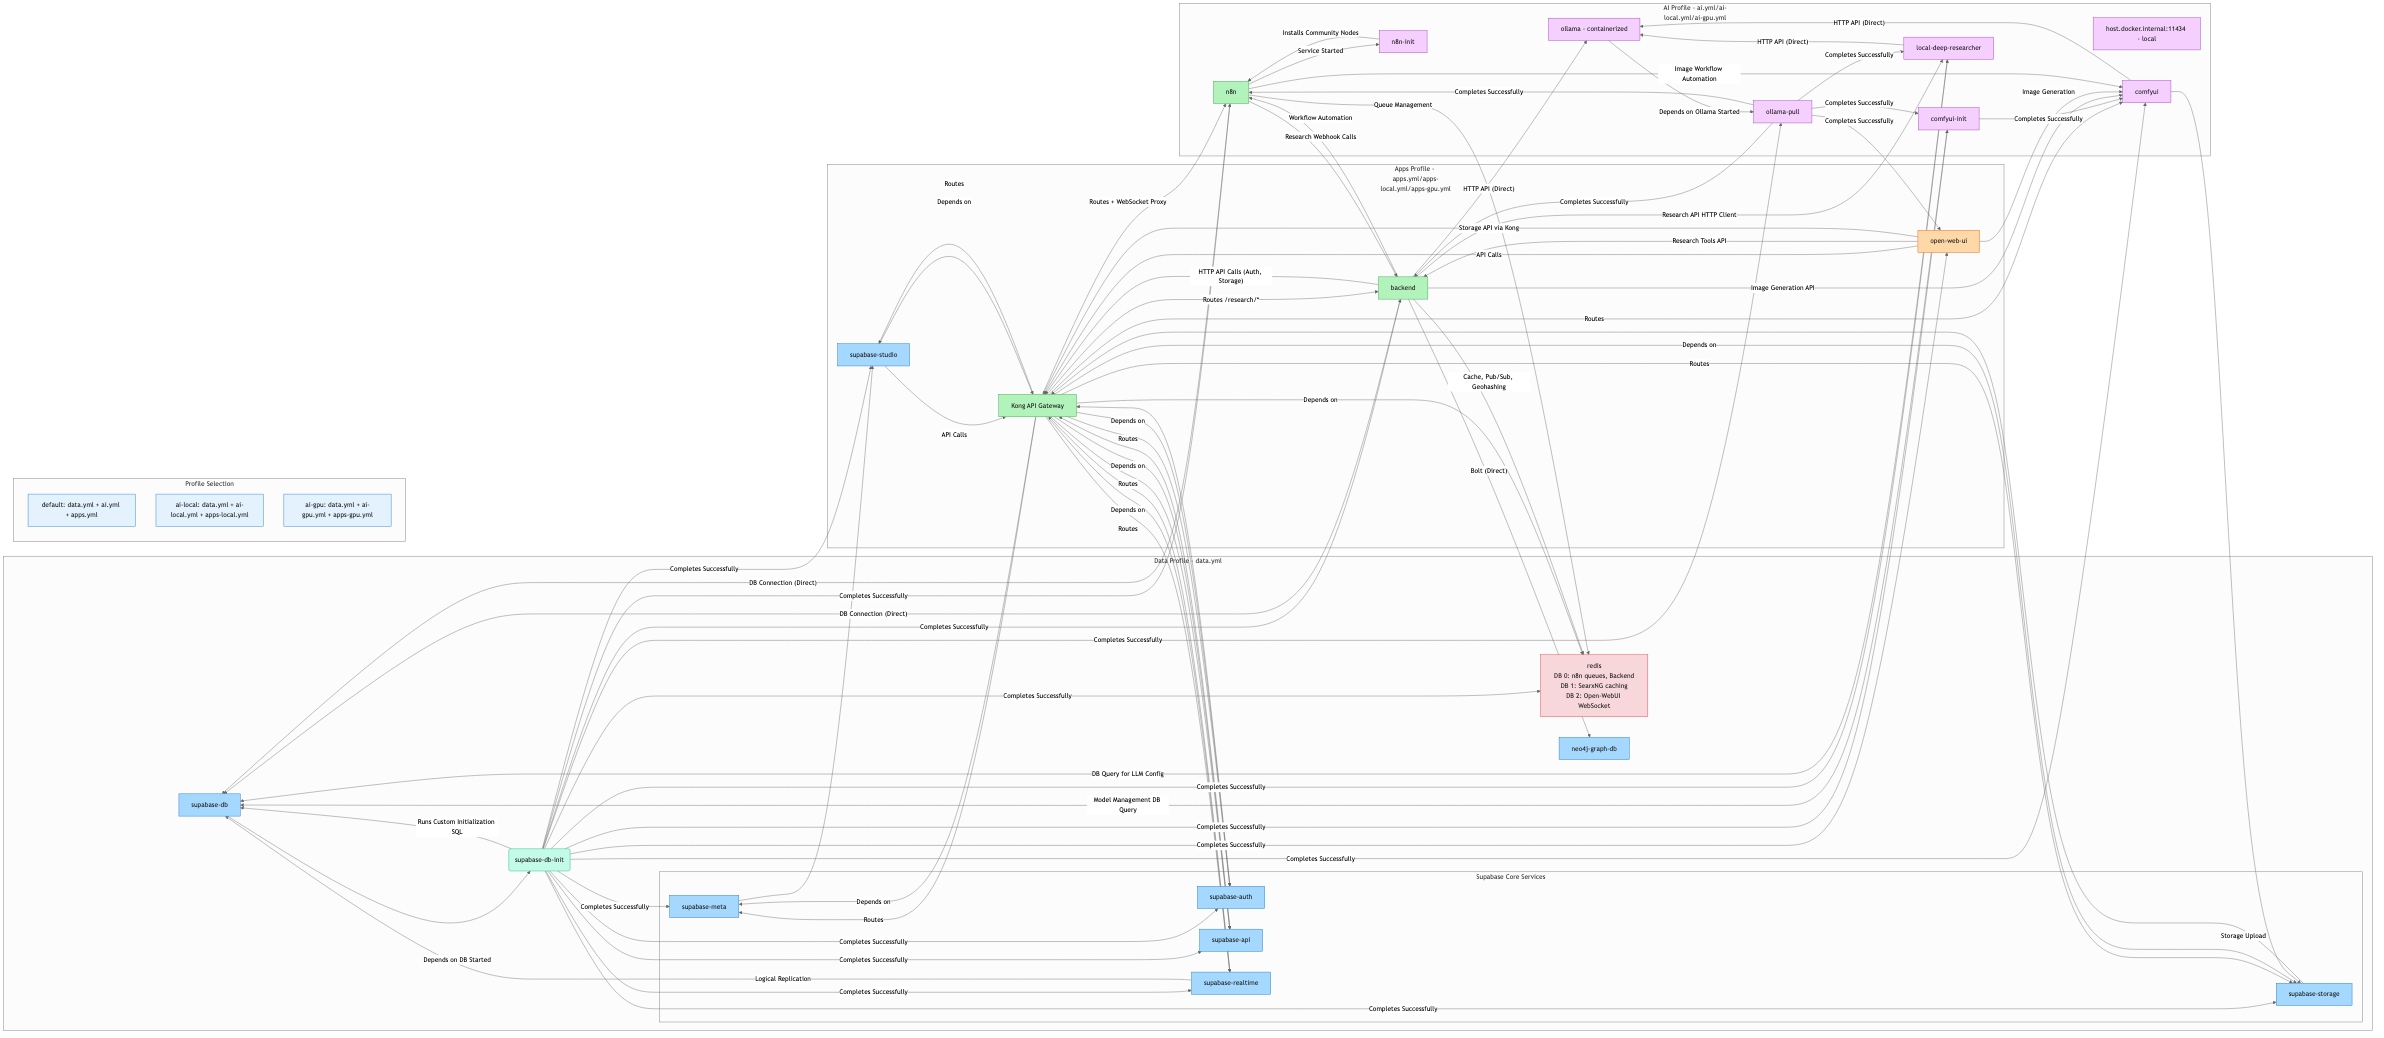
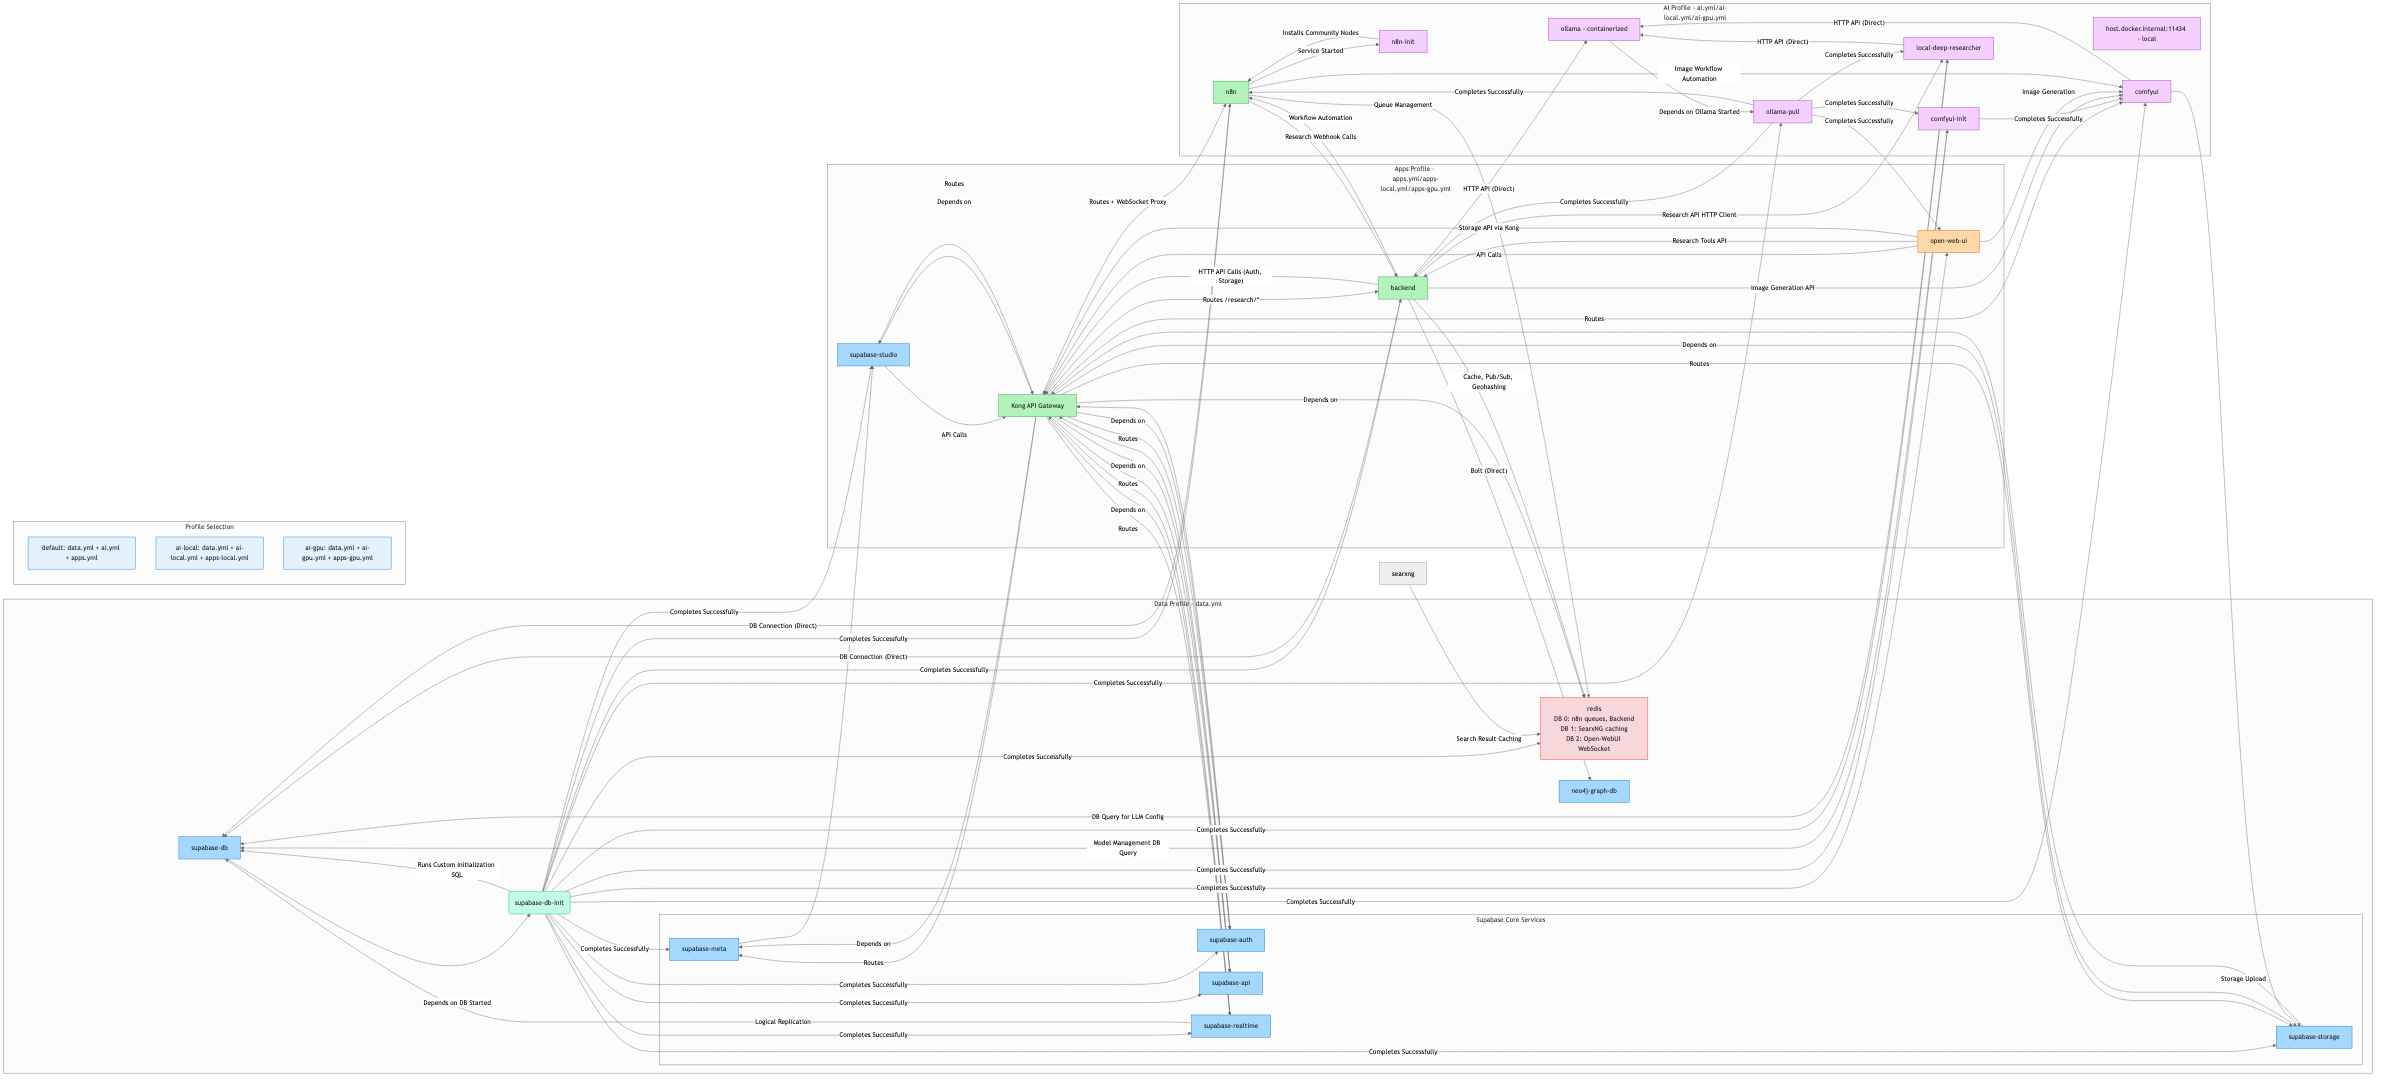
updates documentation according to recent changes

diff --git a/README.md b/README.md
@@ -2819,13 +2819,7 @@ ENABLE_COMFYUI=false  # NEW
       - KONG_RATE_LIMITING_REDIS_PORT=6379
   ```
 
-**12. SearxNG → Redis Caching** ⭐⭐
-- **Method**: Native caching configuration
-- **Implementation**: Built-in Redis caching support
-- **Benefits**: Faster search results, reduced external API calls
-- **Configuration**: Update SearxNG settings.yml with Redis cache config
-
-**13. Backend → SearxNG Integration** ⭐⭐
+**12. Backend → SearxNG Integration** ⭐⭐
 - **Method**: Search API integration
 - **Implementation**: HTTP API calls to SearxNG service
 - **Benefits**: Enhanced search capabilities in backend services
@@ -3660,6 +3654,69 @@ python -m py_compile open-webui/tools/deep_researcher_tool.py
 - **Configuration**: Auto-enablement controlled by `open-webui/tool_config.json`
 - **LLM Selection**: Research uses database-configured LLM, not the chat model
 - **Status Updates**: Tools support real-time progress updates during research operations
+
+### 20.5 n8n → Redis Queue Management ✅
+
+**Status**: Fully integrated and operational
+
+**Implementation Details**:
+- ✅ Added Redis dependency to n8n service in all Docker Compose profiles
+- ✅ Configured n8n with `EXECUTIONS_MODE=queue` for queue-based execution
+- ✅ Set up Bull queue management using Redis database 0
+- ✅ Added proper health check conditions for service startup order
+- ✅ Resolved "Connection Lost" error when accessing n8n through Kong proxy
+- ✅ Implemented WebSocket backend support for real-time features
+
+**Technical Configuration**:
+- Queue backend: Bull (Redis-based queue library)
+- Redis connection: `QUEUE_BULL_REDIS_HOST=redis`
+- Database allocation: Redis DB 0 (shared with backend services)
+- Push backend: WebSocket (switched from SSE for bidirectional communication)
+
+**Kong Proxy Fix Details**:
+- Added `preserve_host: true` to Kong n8n route configuration
+- Removed invalid WebSocket protocol configurations that caused Kong startup failures
+- Kong now properly proxies WebSocket connections for n8n's real-time features
+
+**Benefits Achieved**:
+- Reliable workflow execution with queue management
+- Improved scalability for concurrent workflow processing
+- Real-time workflow status updates through WebSocket
+- Proper service dependency management preventing startup failures
+- Seamless access through Kong proxy without connection issues
+
+> This integration transformed n8n from a single-process execution model to a scalable, queue-based system with proper Redis dependency management and full Kong proxy support.
+
+### 20.6 SearxNG → Redis Caching ✅
+
+**Status**: Fully integrated and operational
+
+**Implementation Details**:
+- ✅ SearxNG already configured with Redis caching in `settings.yml`
+- ✅ Added formal Docker dependency (`depends_on: redis`) to all compose profiles
+- ✅ Configured to use Redis database 1 for search result caching
+- ✅ Updated architecture diagram to show caching relationship
+- ✅ Verified Redis connection and caching functionality
+
+**Technical Configuration**:
+```yaml
+redis:
+  url: redis://:redis_password@redis:6379/1
+```
+
+**Features Available**:
+- Cached search results for improved performance
+- Reduced external API calls to search providers
+- Configurable cache TTL for different search types
+- Automatic cache invalidation for stale results
+
+**Benefits Achieved**:
+- Faster search response times for repeated queries
+- Reduced load on external search providers
+- Better reliability during external API outages
+- Resource optimization through intelligent caching
+
+> This integration enhances SearxNG's performance by leveraging Redis for intelligent search result caching, providing faster responses and reducing external dependencies.
 
 ## 21. Future Enhancements: Docker MCP Servers Integration
 
